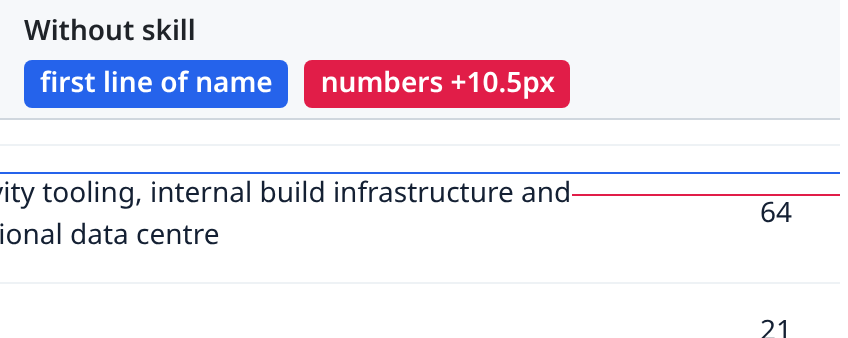
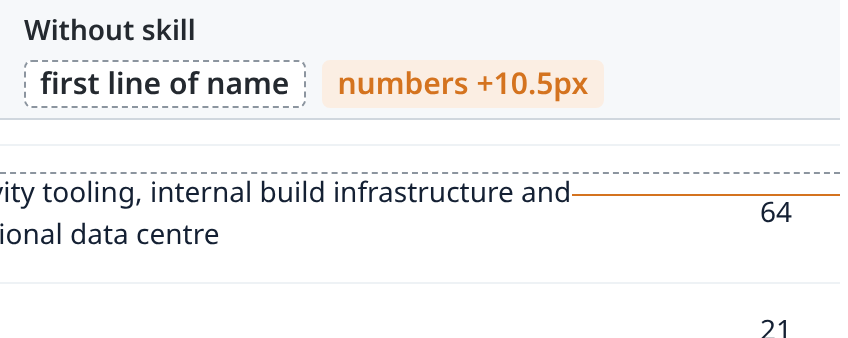
Unify comparison overlay colours
- Replace the red, green and blue overlays with gray for structure and a
  single orange accent (#d4731f) for measurements: gray dashed reference
  lines, solid accent lines with a tinted tag when off, and dashed accent
  lines with an outlined check-mark tag when aligned.
- Use one tag style everywhere (600 15px, 4px radius, same padding) and
  a gray header strip (#f6f8fa, #24292f text) on all images.
- Describe the new key in the README.
- readme-check.mjs now samples each comparison image's header strip and
  fails if it uses more than one accent hue, or if the set disagrees.

Changed region(s): [[0.0307, 0.1775, 0.7052, 0.3254], [0.0, 0.503, 0.9811, 0.5325], [0.6745, 0.5621, 0.9811, 0.5917]]

diff --git a/README.md b/README.md
@@ -104,7 +104,7 @@ They look similar at a glance. That's the point: the difference is a badge 6.3px
 
 ## Side-by-side
 
-Round 3 pages at 1280px, re-rendered in headless Chromium. Left: without the skill. Right: with it. Every crop is the same size as its partner, and the lines follow one key: blue is the reference edge, green is on scale or aligned, red is off.
+Round 3 pages at 1280px, re-rendered in headless Chromium. Left: without the skill. Right: with it. Every crop is the same size as its partner, and the overlays use one key: gray dashed lines are the reference, orange is the measurement. A solid orange line with a filled tag is off; a dashed orange line with an outlined ✓ tag is aligned or on scale.
 
 **1. Badge on the title baseline.** Without the skill, the "3 plans active" chip sits 6.3px above the heading's baseline. With it, the chip shares the heading's baseline exactly (0.0px).
 
